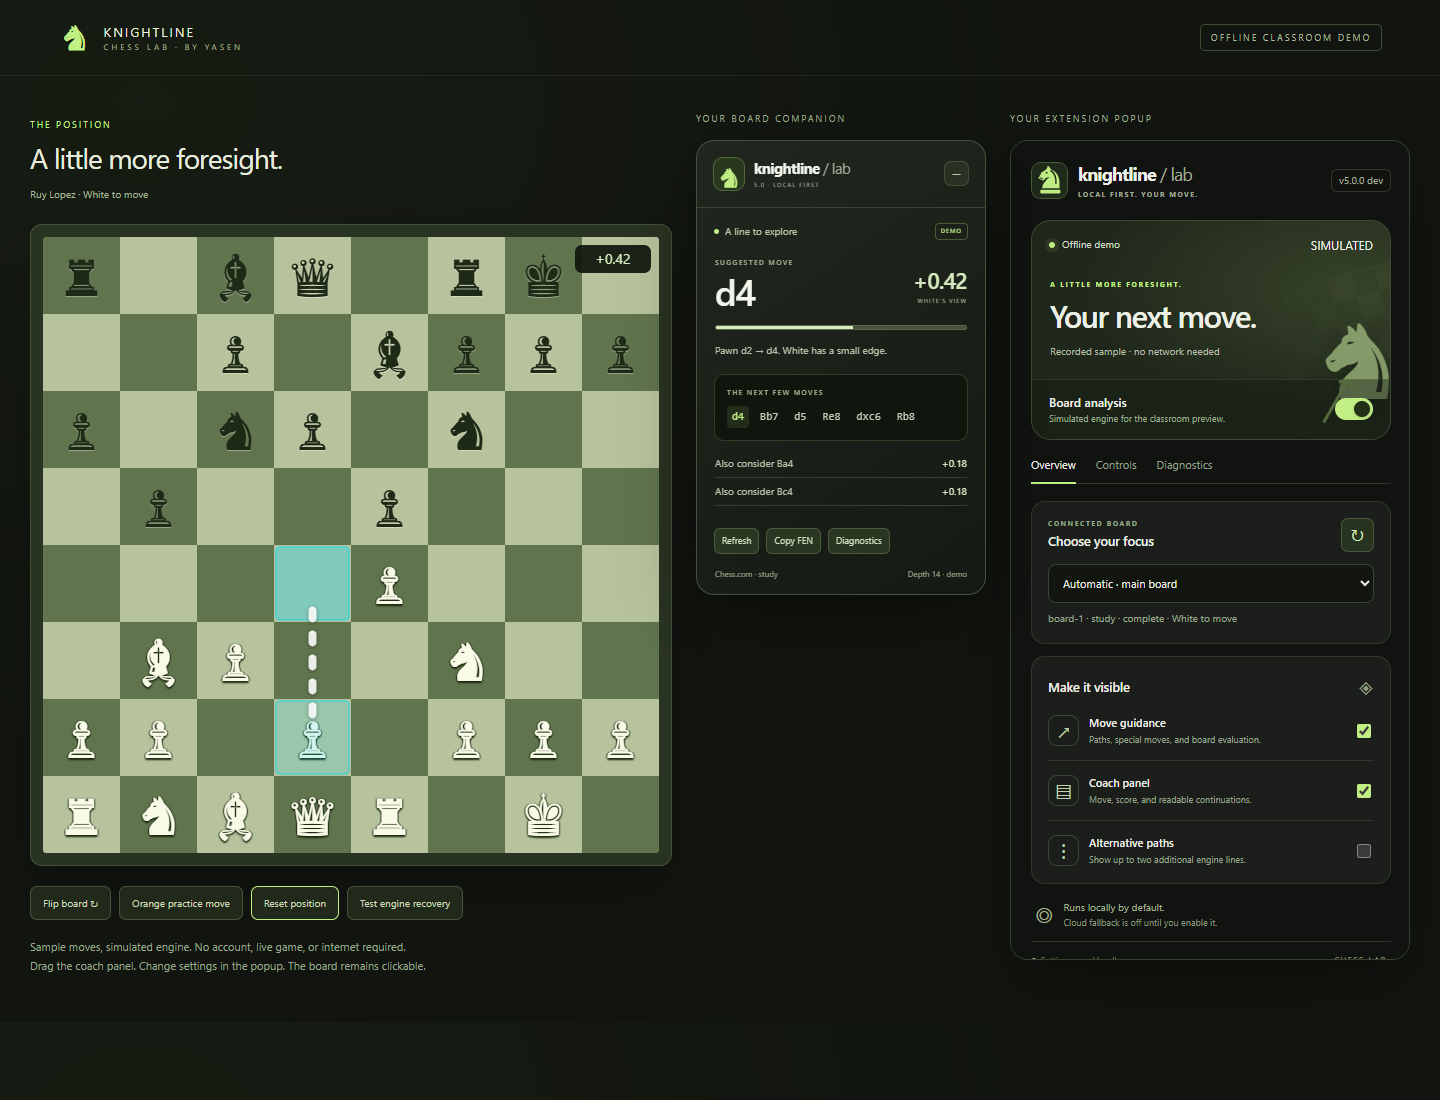
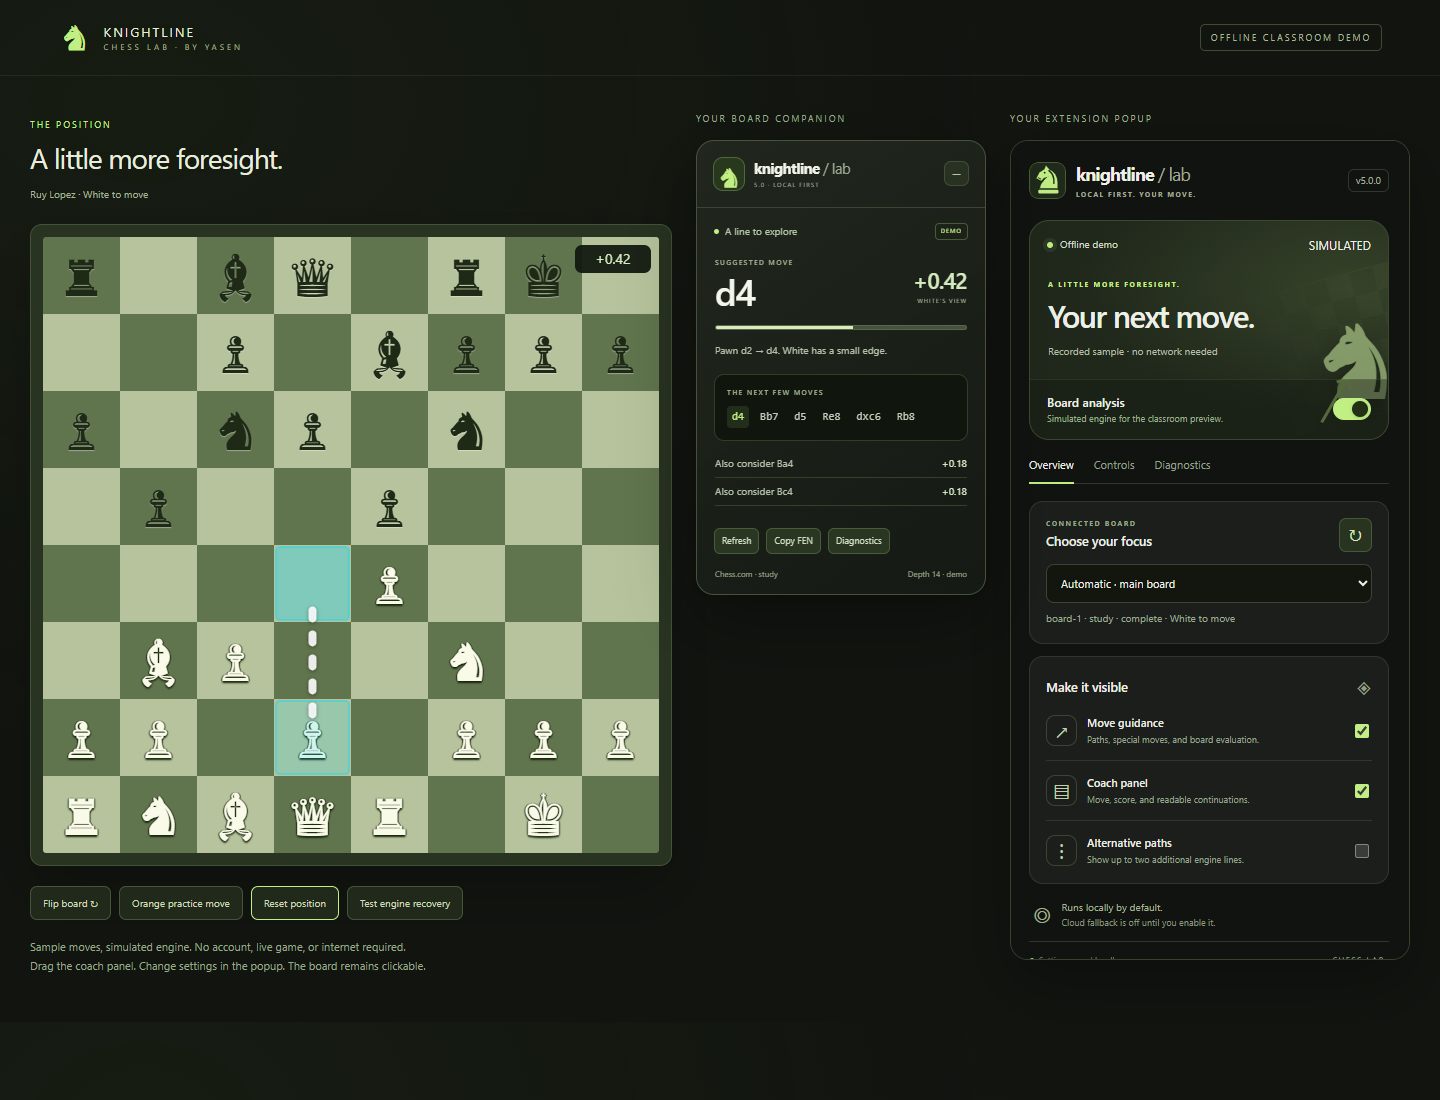
Prepare Knightline 5.0.0 release, changelog, and verified packaging

diff --git a/tools/demo-chrome.js b/tools/demo-chrome.js
@@ -12,7 +12,7 @@
   const messages = [];
   globalThis.chrome = {
     storage: {local: {get: async fallback => ({...fallback, ...read()}), set: async patch => { const before = read(), next = {...before, ...patch}; localStorage.setItem('chess-lab-demo', JSON.stringify(next)); notify(before, next); }}, onChanged: {addListener: listener => listeners.push(listener)}},
-    runtime: {getManifest:()=>({version:'5.0.0',version_name:'5.0.0-dev'}),onMessage: {addListener: listener => messages.push(listener)}, sendMessage: async message => {
+    runtime: {getManifest:()=>({version:'5.0.0',version_name:'5.0.0'}),onMessage: {addListener: listener => messages.push(listener)}, sendMessage: async message => {
       if (message.type === 'GET_RUNTIME_STATUS') return {version: '5.0.0', status: {site: 'Offline demo', engine:'demo', mode: 'Analysis', result: 'Recorded sample · no network needed'}};
       if(message.type==='GET_ENGINE_STATUS')return {ok:true,capabilities:{UCI_Elo:{min:1320,max:3190}}};
       if(['GET_DIAGNOSTICS','REFRESH_BOARD','SET_MANUAL_FEN','SELECT_BOARD'].includes(message.type)){let result=null;const owner=window.parent!==window?window.parent:window;for(const listener of owner.demoMessages||[])listener(message,{},value=>{result=value;});return {ok:true,status:result};}

diff --git a/popup.js b/popup.js
@@ -217,7 +217,7 @@ chrome.runtime.onMessage.addListener((message) => {
     const status = await chrome.runtime.sendMessage({
       type: "GET_RUNTIME_STATUS",
     });
-    if (status?.version) $("version").textContent = `v${status.version} dev`;
+    if (status?.version) $("version").textContent = `v${status.version}`;
     showStatus(status?.status);
     await refreshDiagnostics();
     const engine = await chrome.runtime.sendMessage({

diff --git a/popup.html b/popup.html
@@ -19,7 +19,7 @@
             <div class="eyebrow">LOCAL FIRST. YOUR MOVE.</div>
           </div>
         </div>
-        <span class="version" id="version">5.0 dev</span>
+        <span class="version" id="version">5.0.0</span>
       </header>
       <section class="hero" aria-label="Board status">
         <div class="hero-top">

diff --git a/README.md b/README.md
@@ -1,12 +1,12 @@
 <p align="center"><img src="docs/images/readme-banner.svg" alt="Knightline Chess Lab. Local analysis, a clearer next move." width="100%"></p>
-<p align="center"><strong>Manifest V3</strong> · <strong>Local Stockfish</strong> · <strong>5.0 development candidate</strong> · <a href="LICENSE">GPLv3</a></p>
-<p align="center"><a href="#try-the-candidate">Install</a> / <a href="#how-it-works">Features</a> / <a href="docs/ACCEPTANCE.md">Verification status</a> / <a href="docs/ARCHITECTURE.md">Architecture</a> / <a href="PRIVACY.md">Privacy</a></p>
+<p align="center"><strong>Manifest V3</strong> · <strong>Local Stockfish</strong> · <strong>Version 5.0.0</strong> · <a href="LICENSE">GPLv3</a></p>
+<p align="center"><a href="#install">Install</a> / <a href="#how-it-works">Features</a> / <a href="docs/ACCEPTANCE.md">Verification status</a> / <a href="docs/ARCHITECTURE.md">Architecture</a> / <a href="PRIVACY.md">Privacy</a></p>
 
 # Knightline · Chess Lab
 
 A self-contained chess extension for desktop Chrome and Edge. Knightline reads a Chess.com or Lichess board, analyses it with bundled Stockfish, checks each suggested move against the current position, and draws a clear path across the board. Built by [sixfiguredev0](https://github.com/sixfiguredev0) for a programming-class project.
 
-**5.0 is under verification.** This branch does not replace the published release. The reported 4.8.2 position now passes real offline analysis. The affected installation must still successfully repeat the live-board workflow before release. See the [acceptance ledger](docs/ACCEPTANCE.md) for the difference between controlled fixtures, public-site checks, and tests still pending.
+**5.0 brings local Stockfish, restored gameplay controls, and a refreshed interface.** The reported 4.8.2 position passes real offline analysis. Verification on the affected existing Chrome installation and complete signed-in game workflows remains outstanding. See the [acceptance ledger](docs/ACCEPTANCE.md) for the difference between controlled fixtures, public-site checks, and tests still pending.
 
 ![Classroom preview of the board, coach panel, and extension popup](docs/images/classroom-demo.png)
 
@@ -24,7 +24,7 @@ A self-contained chess extension for desktop Chrome and Edge. Knightline reads a
 
 ## Compatibility and verification
 
-Initial scope: standard chess on desktop Chromium browsers with Manifest V3 offscreen support, Chrome/Edge 116 or later. Browser engine automation has been run in fresh Chromium profiles; Edge and the affected existing Chrome installation remain explicit acceptance gates.
+Initial scope: standard chess on desktop Chromium browsers with Manifest V3 offscreen support, Chrome/Edge 116 or later. Browser engine automation has been run in fresh Chromium profiles; Edge and the affected existing Chrome installation remain unverified.
 
 | Context | Intended analysis / orange variations | Autoplay when explicitly enabled | Evidence so far |
 | --- | --- | --- | --- |
@@ -37,9 +37,9 @@ Initial scope: standard chess on desktop Chromium browsers with Manifest V3 offs
 
 This matrix describes intended capability and observed evidence, not blanket certification of every site page. A site modal, a covered square, incomplete history, or rejected synthetic input produces an explicit explanation. Knightline is independent of Chess.com and Lichess.
 
-## Try the candidate
+## Install
 
-1. Use the locally generated `release/Knightline-Chess-Lab-v5.0.0-dev.zip`, or load this branch's checkout. Existing public releases are earlier versions.
+1. Download [Knightline 5.0.0](https://github.com/sixfiguredev0/knightline-chess-lab/releases/tag/v5.0.0) and choose `Knightline-Chess-Lab-v5.0.0.zip`. SHA-256 checksums accompany the download. You can also load a source checkout.
 2. Extract the ZIP. Open `chrome://extensions` or `edge://extensions` and enable **Developer mode**.
 3. Choose **Load unpacked**, then select the directory containing `manifest.json`.
 4. Disable other Knightline copies while testing, refresh the chess tab, and enable **Board analysis** in the popup.

diff --git a/docs/ACCEPTANCE.md b/docs/ACCEPTANCE.md
@@ -1,8 +1,8 @@
 # 5.0 acceptance ledger
 
-**Status: unpublished development candidate. Release approval is not granted.**
+**Version 5.0.0: publication approved. Verification scope and remaining checks are documented below.**
 
-Branch: `codex/knightline-5.0`, isolated from the published `main`. The older release is untouched. A passing fixture suite does not close the reported live-game blocker.
+The 5.0 implementation was developed on `codex/knightline-5.0`; release preparation uses `codex/knightline-5.0-release`. Earlier versioned releases remain available. Publication approval does not certify the unverified workflows below.
 
 ## Evidence categories
 
@@ -36,16 +36,16 @@ Direct access to the existing Chrome session was unavailable under the computer-
 - All four promotion choices passed on the actual public Chess.com analysis board. Lichess custom-FEN URLs returned an external verification challenge, so its real-site special-move check remains unverified. No access challenge was bypassed.
 - Redacted Gitleaks scans found no secrets in the staged source or extracted package. Publication scanning excludes only known public CI/Emscripten virtual-home defaults from its personal-path rule. Pinned engine/source/network/licence hashes and extracted ZIP file hashes were verified.
 
-## Release blockers still requiring user-controlled verification
+## Outstanding compatibility verification
 
 - Install the candidate on the affected Chrome setup and successfully repeat the previously failing live-board analysis. The old report is captured and its exact position works locally; the affected installed 5.0 pipeline still needs confirmation.
 - Complete controlled user-owned games on Chess.com and Lichess as both colours, with rematch and page refresh. Validate actual resulting moves, including special moves and underpromotions. Do not test against an uninvolved opponent.
 - Verify signed-in live, daily, puzzle/training, bot, study and spectator workflows, game-end markers, history browsing, reconnects and manual interruption on both sites. Route capability is implemented; this is not a claim that every workflow has passed.
 - Verify desktop Edge and the affected Chrome version/profile, plus flipped/resized boards, actual site animations, rapid moves, multiple genuine boards and promotion dialogs.
 - Complete the affected user's final installed-package check. Automated extracted-package checks do not replace that confirmation.
-- Review the candidate's source, compatibility evidence, checksums and secret/publication scan results, then obtain explicit release approval.
+- Continue validating the compatibility matrix against actual signed-in workflows; report regressions with version and position details.
 
-No merge, tag, push, release publication, or replacement of the existing release is authorized before these gates close and the user approves the tested candidate.
+Publication of 5.0.0 was explicitly authorized with these checks outstanding. None of the outstanding checks is recorded as passed.
 
 ## Reproduce the local checks
 
@@ -60,7 +60,7 @@ npm run test:live
 npm run package
 ```
 
-Set `KNIGHTLINE_EXTENSION_DIR` to the generated unpacked package when rerunning `test:engine` and `test:extension`. A per-file `PACKAGE-MANIFEST.json` and ZIP `SHA256SUMS.txt` accompany the candidate. These are local build artifacts, not a published release.
+Set `KNIGHTLINE_EXTENSION_DIR` to the generated unpacked package when rerunning `test:engine` and `test:extension`. A per-file `PACKAGE-MANIFEST.json` and ZIP `SHA256SUMS.txt` accompany the candidate. These artifacts accompany the GitHub release; local test reports are excluded from the distribution.
 
 
 

diff --git a/docs/RELEASE_NOTES_5.0.0.md b/docs/RELEASE_NOTES_5.0.0.md
@@ -1,0 +1,37 @@
+# Knightline 5.0.0
+
+Knightline's largest update so far: bundled local Stockfish, restored gameplay controls, more reliable move handling, and a refreshed charcoal-and-green interface. No account, API key, subscription, or hosted platform is required.
+
+## Analysis on your device
+
+- Stockfish.js 19.0.1 lite WASM is included in the download and runs inside an extension-owned Worker.
+- One thread, a 32 MB hash, and three candidate lines. Automatic budgets adapt to the board; manual time/depth and supported playing-strength controls are separate.
+- Obsolete searches stop when the position changes. Worker failures, service-worker restarts, and idle release/restart are handled.
+- Cloud fallback starts off. A local engine failure does not silently upload a position.
+
+## Better gameplay and board handling
+
+- Autoplay and orange practice variations follow explicit settings across supported contexts, including live routes. Read-only boards explain why input is unavailable.
+- Main-board adapters ignore miniatures and offer a picker when selection is ambiguous. Legal history replay preserves known position state.
+- Click/drag input, fixed or randomized delays, all promotion choices, castling, and en passant are supported. Move acceptance is checked against the observed legal transition.
+- Manual input, board changes, navigation, disablement, and game end cancel queued work. Interrupted drags release at the source.
+
+## A clearer interface
+
+The popup now has Overview, Controls and Diagnostics. The movable, collapsible coach panel uses isolated styles and remembers its layout. Guidance includes promotion indicators, castling rook paths, optional alternative paths, an evaluation badge, readable continuations, smooth transitions, keyboard controls, and reduced-motion support.
+
+## Verification and known gaps
+
+The implementation was checked with 41 unit/server tests, 42 controlled move checks, 13 classroom UI checks, 24 installed-extension integration checks, and eight real engine lifecycle checks. Public analysis pages accepted click/drag input on both sites; Lichess TV was analysed locally. All four promotion choices passed on the actual Chess.com analysis board. The exact reported 4.8.2 Lichess position was analysed offline successfully.
+
+**The affected existing Chrome installation, complete signed-in games on both sites, Edge, and actual Lichess special-move workflows remain unverified.** These are documented gaps, not passing tests. See the [verification ledger](https://github.com/sixfiguredev0/knightline-chess-lab/blob/v5.0.0/docs/ACCEPTANCE.md).
+
+## Install or update
+
+1. Download **Knightline-Chess-Lab-v5.0.0.zip** below and extract it.
+2. Open `chrome://extensions` or `edge://extensions`, enable Developer mode, and choose **Load unpacked**.
+3. Select the extracted folder containing `manifest.json`. Disable older Knightline copies, refresh your chess tab, and enable Board analysis.
+
+New installations start with autoplay, variations, and cloud fallback off. Existing explicit preferences are preserved when updating the same extension installation. Loading a different folder can create a separate instance.
+
+The download includes **GPLv3 terms, attribution notices, corresponding Stockfish source, the exact NNUE network, and a per-file digest manifest**. `SHA256SUMS.txt` accompanies the ZIP. Earlier MIT and Hippocratic grants remain valid for their respective versions. Redacted secret scans cover the source, Git history, and packaged files.

diff --git a/CHANGELOG.md b/CHANGELOG.md
@@ -1,0 +1,18 @@
+# Changelog
+
+## 5.0.0
+
+Knightline 5.0 replaces default remote analysis with a bundled local Stockfish engine, restores explicit gameplay controls across supported contexts, and refreshes the board companion and popup.
+
+- Bundled Stockfish.js 19.0.1 lite WASM, one Worker and thread, a 32 MB hash, three candidate lines, adaptive search budgets, actual UCI strength controls, cancellation, recovery, and idle release.
+- Main-board selection and an explicit picker, legal move-history reconstruction, separated orientation/player identity, manual metadata correction, and stale-result protection.
+- Autoplay and scheduled orange variations across input-capable contexts, fixed or randomized timing, click/drag input, promotion choices, castling, en passant, and observed move acceptance.
+- Charcoal/green popup with Overview, Controls and Diagnostics; isolated coach styles, special-move guidance, optional alternative paths, evaluation badges, persistent layout, keyboard controls, and reduced motion.
+- Cloud fallback requires explicit opt-in. Local errors no longer silently transmit a position. Diagnostic copying omits account fields and page URLs.
+- GPLv3 distribution with the corresponding engine source, exact network, upstream notices, per-file digests and ZIP checksums. Earlier licence grants remain valid.
+
+The reported 4.8.2 Lichess position passes actual offline analysis. The affected user's installed live workflow, complete signed-in games, Edge, and actual Lichess special-move workflows remain unverified. See [the verification ledger](docs/ACCEPTANCE.md) and [release notes](docs/RELEASE_NOTES_5.0.0.md).
+
+## Earlier releases
+
+Versioned 4.8.1 and 4.8.2 releases remain available in [GitHub Releases](https://github.com/sixfiguredev0/knightline-chess-lab/releases).

diff --git a/SECURITY.md b/SECURITY.md
@@ -1,6 +1,6 @@
 # Security
 
-The 5.0 candidate is local-first and remains unpublished until its release gates pass. Secret scanning and publication checks are scoped checks, not a guarantee that every possible disclosure or vulnerability has been detected.
+Version 5.0 is local-first. Completed checks and remaining compatibility verification are documented in docs/ACCEPTANCE.md. Secret scanning and publication checks are scoped checks, not a guarantee that every possible disclosure or vulnerability has been detected.
 
 ## Runtime boundaries
 
